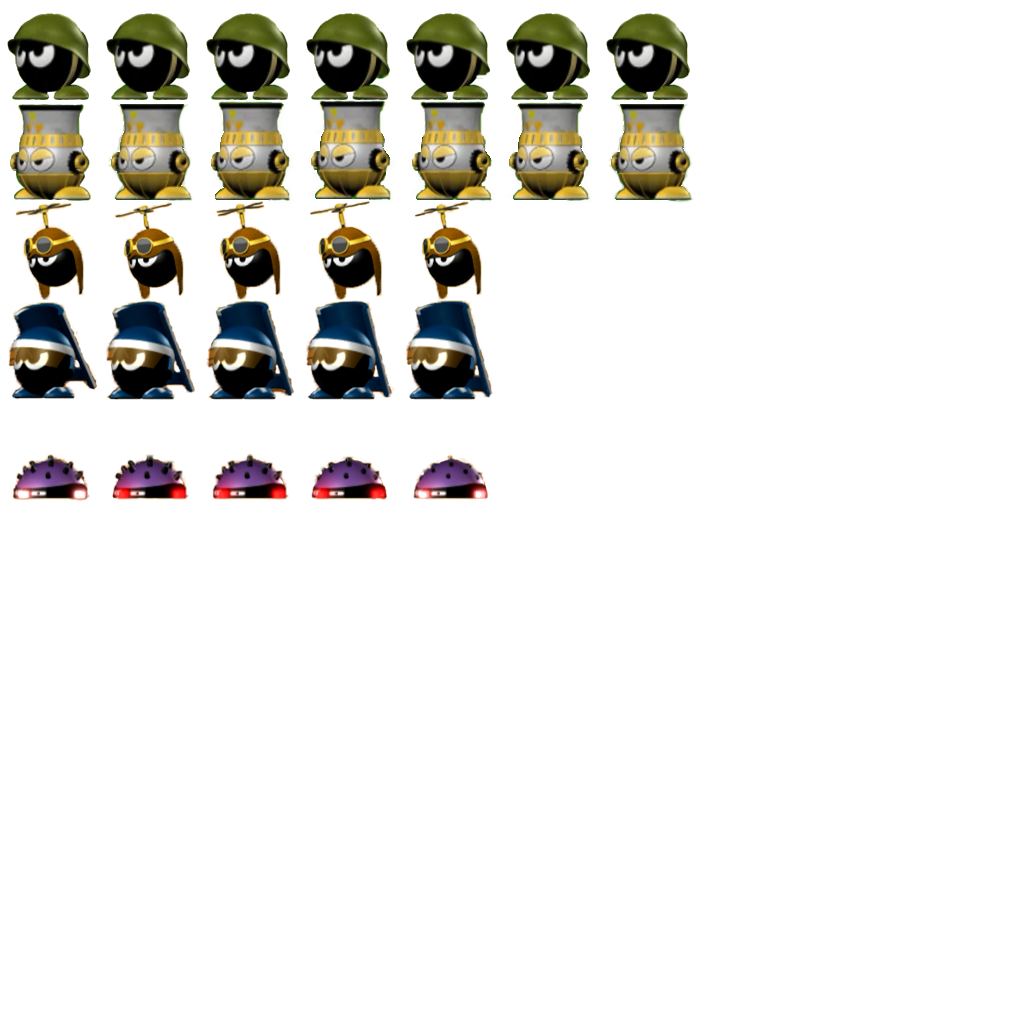
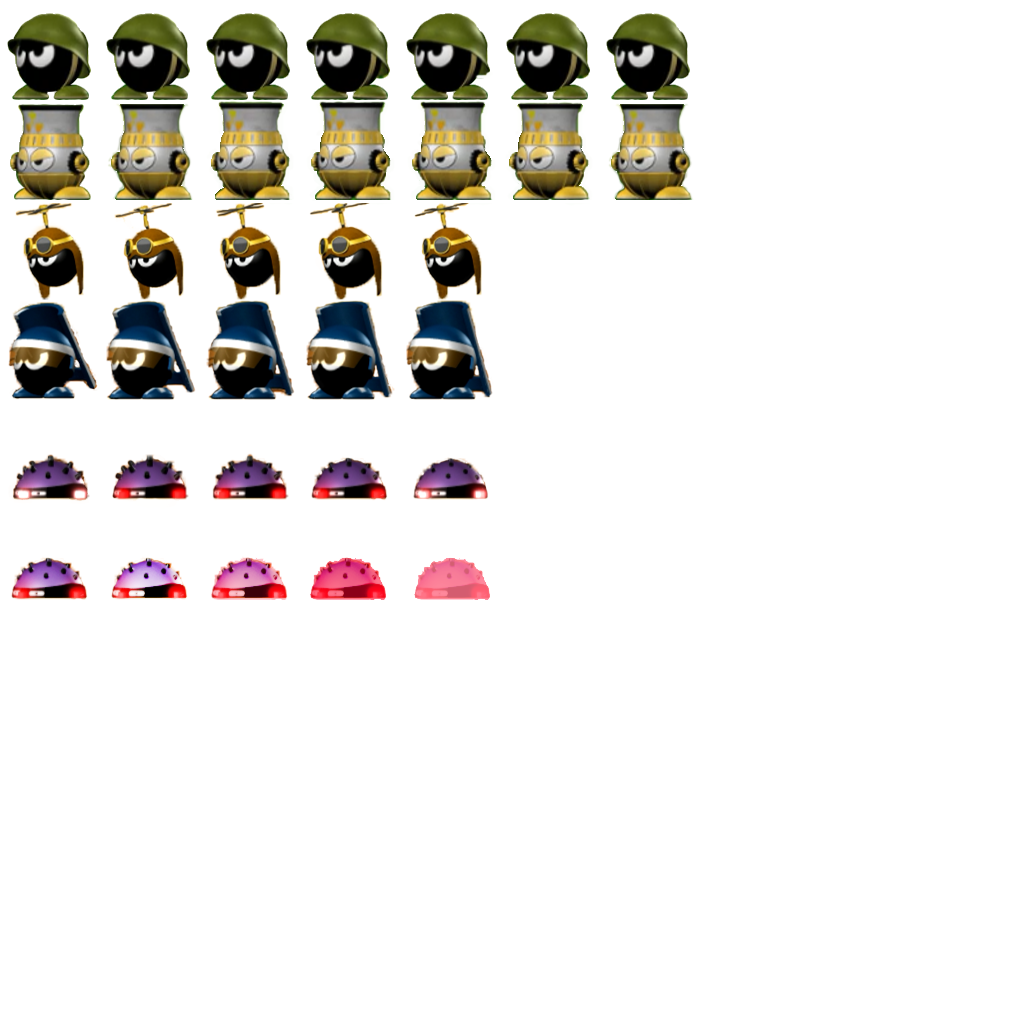
Add MineBot

Changed region(s): [[0.0, 0.5312, 0.375, 0.5938], [0.3125, 0.0938, 0.375, 0.2188], [0.4062, 0.5312, 0.5, 0.5938]]

diff --git a/core/src/com/mygdx/game_helpers/AssetLoader.java b/core/src/com/mygdx/game_helpers/AssetLoader.java
@@ -64,7 +64,7 @@ public class AssetLoader {
                 ("enemies/enemies.png"));
         bulletsTexture = new Texture(Gdx.files.internal("littles/littles.png"));
         mainMenuBackgroundTexture = new Texture(Gdx.files.internal
-                ("backgrounds/main_menu_background_stub.png"));
+                ("backgrounds/main_menu_background.png"));
         menuIconsTexture = new Texture(Gdx.files.internal
                 ("gui/menu_icons.png"));
 
@@ -82,6 +82,9 @@ public class AssetLoader {
         robotTiles.put("ShieldBot", new TextureRegion(robotTilesTexture, 150,
                 0, 75, 82));
         robotTiles.get("ShieldBot").flip(false, true);
+        robotTiles.put("MineBot", new TextureRegion(robotTilesTexture, 300,
+                0, 75, 82));
+        robotTiles.get("MineBot").flip(false, true);
 
         // Load bullets
         bullets = new HashMap<String, TextureRegion>();
@@ -232,6 +235,19 @@ public class AssetLoader {
         Animation shieldBotAnimation = new Animation(0.2f, shieldBotFrames);
         shieldBotAnimation.setPlayMode(Animation.PlayMode.LOOP_PINGPONG);
         robots.put("ShieldBot", shieldBotAnimation);
+
+        // Load ShieldBot animation
+        TextureRegion[] mineBotFrames = new TextureRegion[5];
+        for (int i = 0; i < 5; i++) {
+            TextureRegion frame = new TextureRegion(robotsTexture, 100 * i,
+                    400, 100, 100);
+            frame.flip(false, true);
+            mineBotFrames[i] = frame;
+        }
+
+        Animation mineBotAnimation = new Animation(0.2f, mineBotFrames);
+        mineBotAnimation.setPlayMode(Animation.PlayMode.LOOP_PINGPONG);
+        robots.put("MineBot", mineBotAnimation);
     }
 
     public void dispose() {

diff --git a/core/src/com/mygdx/game_objects/robots/MineBot.java b/core/src/com/mygdx/game_objects/robots/MineBot.java
@@ -1,0 +1,49 @@
+package com.mygdx.game_objects.robots;
+
+import com.badlogic.gdx.math.Vector2;
+import com.mygdx.config.RobotsData;
+import com.mygdx.game_objects.IDamagable;
+import com.mygdx.game_objects.bullets.GunnerBotBullet;
+import com.mygdx.game_objects.enemies.Enemy;
+import com.mygdx.game_objects.map.CellType;
+import com.mygdx.game_objects.map.GameMap;
+
+import java.util.ArrayList;
+import java.util.HashMap;
+import java.util.HashSet;
+import java.util.Set;
+
+public class MineBot extends Robot implements IDamagable {
+    private float damage;
+
+    public MineBot(float x, float y) {
+        super(x, y, RobotsData.get("MineBot").width,
+                RobotsData.get("MineBot").height, "MineBot", RobotsData.get
+                        ("MineBot").cooldown, RobotsData.get("MineBot").health,
+                RobotsData.get("MineBot").cellTypes);
+        damage = RobotsData.get("MineBot").damage;
+    }
+
+    @Override
+    public void update(float delta, GameMap map) {
+        super.update(delta, map);
+
+        if (leftoverCooldown <= 0) {
+            Vector2 cellPosition = map.getCellIndexes(rect.x + 10, rect.y + 10);
+            Set<Enemy> enemiesInCell = map.getCells()[(int)cellPosition.y][
+                    (int)cellPosition.x]
+                    .getEnemies();
+            if (!enemiesInCell.isEmpty()) {
+                for (Enemy enemy : enemiesInCell) {
+                    enemy.makeDamaged(this);
+                    health = 0;
+                }
+            }
+        }
+    }
+
+    @Override
+    public float getDamage() {
+        return damage;
+    }
+}

diff --git a/core/src/com/mygdx/game_objects/enemies/Enemy.java b/core/src/com/mygdx/game_objects/enemies/Enemy.java
@@ -4,6 +4,7 @@ import com.badlogic.gdx.graphics.g2d.SpriteBatch;
 import com.mygdx.config.EnemiesData;
 import com.mygdx.config.EnemyParams;
 import com.mygdx.game_helpers.AssetLoader;
+import com.mygdx.game_objects.IDamagable;
 import com.mygdx.game_objects.bullets.Bullet;
 import com.mygdx.game_objects.GameObject;
 import com.mygdx.game_objects.bullets.RobotBullet;
@@ -73,7 +74,7 @@ public abstract class Enemy extends GameObject {
         return state != EnemyState.DEAD;
     }
 
-    public boolean makeDamaged(RobotBullet bullet) {
+    public boolean makeDamaged(IDamagable bullet) {
         health -= bullet.getDamage();
         return true;
     }

diff --git a/core/src/com/mygdx/game_objects/robots/Robot.java b/core/src/com/mygdx/game_objects/robots/Robot.java
@@ -5,6 +5,7 @@ import com.badlogic.gdx.graphics.g2d.SpriteBatch;
 import com.badlogic.gdx.math.Vector2;
 import com.mygdx.game_helpers.AssetLoader;
 import com.mygdx.game_objects.GameObject;
+import com.mygdx.game_objects.IDamagable;
 import com.mygdx.game_objects.bullets.EnemyBullet;
 import com.mygdx.game_objects.enemies.Enemy;
 import com.mygdx.game_objects.map.CellType;
@@ -63,7 +64,7 @@ public abstract class Robot extends GameObject {
         return true;
     }
 
-    public boolean makeDamaged(EnemyBullet bullet) {
+    public boolean makeDamaged(IDamagable bullet) {
         health -= bullet.getDamage();
         return true;
     }

diff --git a/core/src/com/mygdx/game_objects/bullets/Bullet.java b/core/src/com/mygdx/game_objects/bullets/Bullet.java
@@ -4,10 +4,11 @@ import com.badlogic.gdx.graphics.g2d.SpriteBatch;
 import com.mygdx.config.Configuration;
 import com.mygdx.game_helpers.AssetLoader;
 import com.mygdx.game_objects.GameObject;
+import com.mygdx.game_objects.IDamagable;
 import com.mygdx.game_objects.enemies.Enemy;
 import com.mygdx.game_objects.map.GameMap;
 
-public class Bullet extends GameObject {
+public class Bullet extends GameObject implements IDamagable {
     protected boolean isActive;
     protected float damage;
 

diff --git a/core/src/com/mygdx/gameworld/GameWorld.java b/core/src/com/mygdx/gameworld/GameWorld.java
@@ -76,7 +76,7 @@ public class GameWorld implements Serializable {
 
         map = new GameMap(level.getLevelMap());
         availableRobots = new ArrayList<Class>(Arrays.asList(GemBot.class,
-                GunnerBot.class, AirBot.class, ShieldBot.class));
+                GunnerBot.class, AirBot.class, ShieldBot.class, MineBot.class));
 
         selectRobotPanel = new SelectRobotPanel(availableRobots);
         action = PointerActions.NOTHING;

diff --git a/core/src/com/mygdx/game_objects/IDamagable.java b/core/src/com/mygdx/game_objects/IDamagable.java
@@ -1,0 +1,5 @@
+package com.mygdx.game_objects;
+
+public interface IDamagable {
+    float getDamage();
+}
